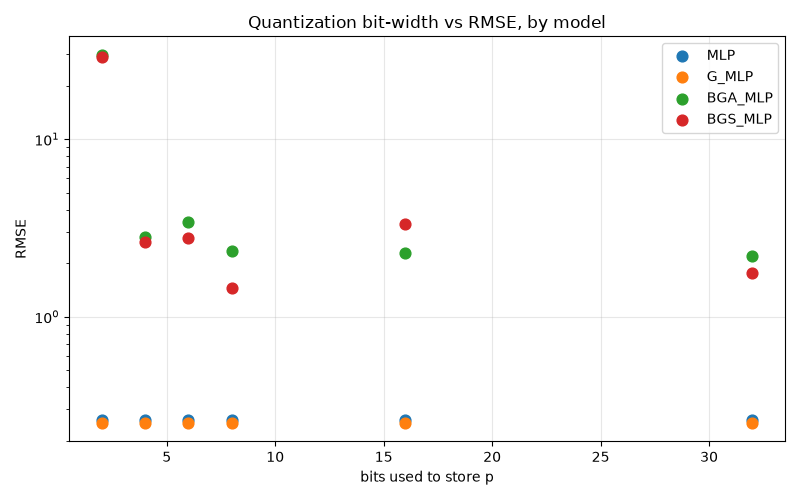
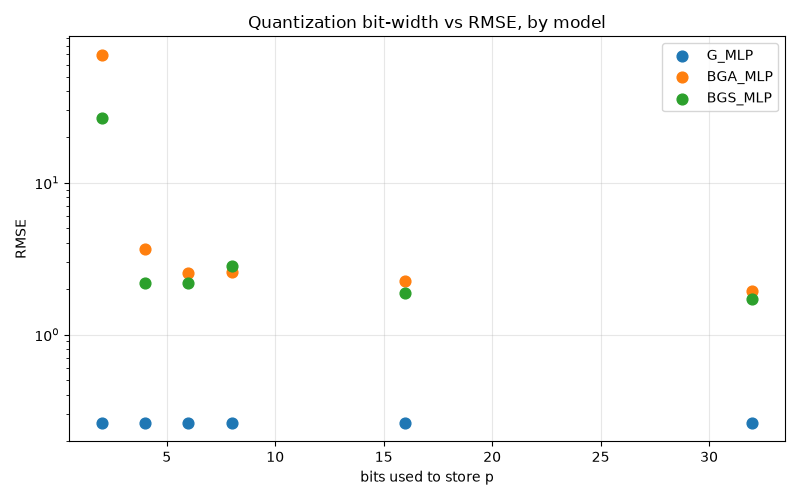
Add nll scatter

diff --git a/src/vis/quant_scatter.py b/src/vis/quant_scatter.py
@@ -18,25 +18,25 @@ from src.net.bgs_mlp import BGS_MLP
 from src.net.g_mlp import G_MLP
 from src.net.mlp import MLP
 from src.train.train import fit
-from src.val.metrics import rmse
+from src.val.metrics import gaussian_nll, rmse
 
 
-def plot_quantization_vs_rmse(results: dict[str, list[dict]]):
+def plot_quantization_vs_metric(results: dict[str, list[dict]], metric: str, save_path: str):
     plt.figure(figsize=(8, 5))
 
     for name, rows in results.items():
         bits = [row["bits"] for row in rows]
-        rmse_values = [row["rmse"] for row in rows]
-        plt.scatter(bits, rmse_values, label=name, s=60)
+        metric_values = [row[metric] for row in rows]
+        plt.scatter(bits, metric_values, label=name, s=60)
 
     plt.xlabel("bits used to store p")
-    plt.ylabel("RMSE")
+    plt.ylabel(metric.upper())
     plt.yscale("log")
-    plt.title("Quantization bit-width vs RMSE, by model")
+    plt.title(f"Quantization bit-width vs {metric.upper()}, by model")
     plt.grid(True, alpha=0.3)
     plt.legend()
     plt.tight_layout()
-    plt.savefig("plots/quant_vs_rmse.png")
+    plt.savefig(save_path)
     plt.show()
 
 
@@ -52,14 +52,15 @@ if __name__ == "__main__":
     results = {}
 
     # Non-quantizable models: MLP and G_MLP
-    for name, cls in [("MLP", MLP), ("G_MLP", G_MLP)]:
+    for name, cls in [("G_MLP", G_MLP)]:
         model = cls(shared_cfg).to(device)
         fit(model, train_loader, val_loader,
             optimizer=Adam(model.parameters(), lr=1e-3),
             criterion=nn.MSELoss(), epochs=epochs, device=device)
 
         model_rmse = rmse(model, test_loader, device)
-        results[name] = [{"bits": bits, "rmse": model_rmse} for bits in bit_widths]
+        model_nll = gaussian_nll(model, test_loader, device)
+        results[name] = [{"bits": bits, "rmse": model_rmse, "nll": model_nll} for bits in bit_widths]
 
     # Quantizable models: BGA_MLP and BGS_MLP
     for name, cls, extra_cfg in [
@@ -72,6 +73,7 @@ if __name__ == "__main__":
             criterion=nn.MSELoss(), epochs=epochs, device=device)
 
         results[name] = resolution_foreach(model, test_loader, device,
-                                            bit_widths=bit_widths, metrics={"rmse": rmse})
+                                            bit_widths=bit_widths, metrics={"rmse": rmse, "nll": gaussian_nll})
 
-    plot_quantization_vs_rmse(results)
+    plot_quantization_vs_metric(results, metric="rmse", save_path="plots/quant_vs_rmse.png")
+    plot_quantization_vs_metric(results, metric="nll", save_path="plots/quant_vs_nll.png")
